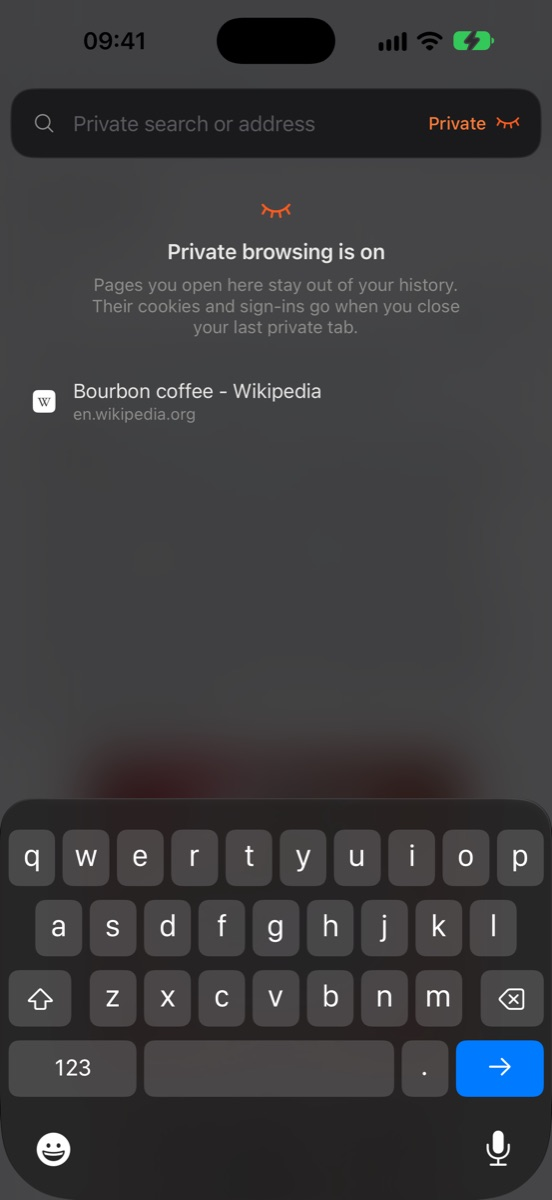
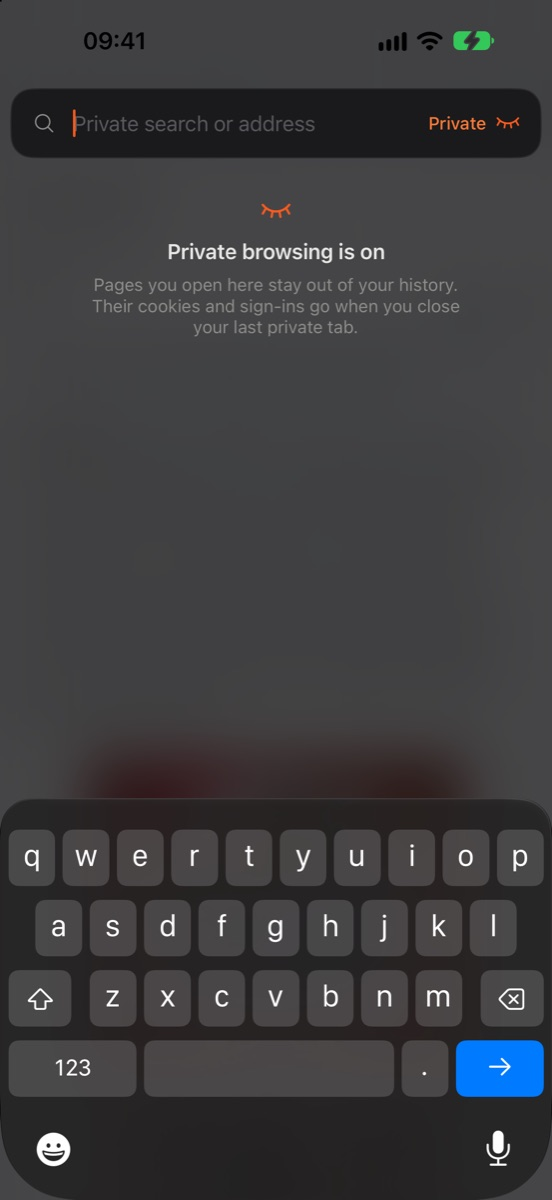
Private mode offers nothing of yours; the site leads with speed, for iPhone

diff --git a/Site/style.css b/Site/style.css
@@ -23,14 +23,13 @@ h1,h2{font-family:var(--display);font-weight:800;letter-spacing:0;text-wrap:bala
 @media(max-width:560px){.nav .link{display:none}}
 
 /* The first screen: an eclipse coming up behind one working bar. */
-.hero{position:relative;min-height:100svh;padding:clamp(92px,13vh,130px) var(--gutter) clamp(24px,5vh,56px);display:flex;flex-direction:column;justify-content:space-between;gap:32px;overflow:hidden;isolation:isolate;background:radial-gradient(125% 62% at 62% 108%,var(--ember) 0%,#7c2f14 30%,#2a120a 62%,var(--floor) 100%)}
+.hero{position:relative;min-height:100svh;padding:clamp(100px,15vh,150px) var(--gutter) clamp(28px,6vh,64px);display:flex;flex-direction:column;align-items:center;gap:clamp(28px,5vh,52px);text-align:center;overflow:hidden;isolation:isolate;background:radial-gradient(110% 58% at 50% 108%,var(--ember) 0%,#7c2f14 30%,#2a120a 62%,var(--floor) 100%)}
 .hero::after{content:"";position:absolute;z-index:-1;left:0;right:0;bottom:0;height:22vh;background:linear-gradient(transparent,#0f0f0e4d 35%,#0f0f0ec9 72%,var(--floor))}
 .hero .grain{-webkit-mask-image:linear-gradient(#000 70%,transparent);mask-image:linear-gradient(#000 70%,transparent)}
 footer .grain{-webkit-mask-image:linear-gradient(transparent,#000 30%);mask-image:linear-gradient(transparent,#000 30%)}
-.hero h1{position:relative;font-size:clamp(38px,10.4vw,176px);line-height:.98}
-.eclipse{position:absolute;z-index:-1;left:-7vw;bottom:-17vw;width:47vw;height:auto;color:#e8e7e2}
-.bar{position:relative;width:min(640px,100%);margin-left:auto}
-.bar label{display:block;margin:0 0 10px 20px;color:var(--soft);font-size:15px}
+.hero h1{position:relative;max-width:14ch;font-size:clamp(46px,8.4vw,132px);line-height:1}
+.eclipse{position:absolute;z-index:-1;left:50%;bottom:-26vmin;width:min(78vmin,700px);height:auto;margin-left:calc(min(78vmin,700px)/-2);color:#e8e7e2}
+.bar{position:relative;width:min(600px,100%);margin-top:auto;text-align:left}
 .field{display:flex;align-items:center;gap:12px;height:62px;padding:0 20px;background:#1a1918;border-radius:22px;box-shadow:inset 0 0 0 1px var(--edge),0 3px 8px -4px #0009}
 .field:focus-within{box-shadow:inset 0 0 0 1px #ffffff3d,0 3px 8px -4px #0009}
 .field svg{flex:none;width:20px;height:20px;color:var(--faint)}
@@ -41,15 +40,21 @@ footer .grain{-webkit-mask-image:linear-gradient(transparent,#000 30%);mask-imag
 .answer b.small{font-size:19px}
 .answer span{grid-column:1;color:var(--soft);font-size:15px}
 .answer i{grid-row:1/3;grid-column:2;font-style:normal;color:var(--faint);font-size:14px}
-.beta{margin-top:14px;display:flex;flex-wrap:wrap;align-items:center;gap:8px 14px;color:var(--soft);font-size:15px}
+.beta{margin-top:14px;display:flex;flex-wrap:wrap;align-items:center;justify-content:center;gap:8px 14px;color:var(--ink);font-size:15px}
 
 /* Sections are composed one by one, on one continuous floor. */
 section{position:relative;padding:clamp(72px,12vw,170px) var(--gutter)}
 h2{font-size:clamp(44px,7.4vw,116px);line-height:1}
 .lede{margin-top:20px;max-width:32em;color:var(--soft);font-size:clamp(18px,1.6vw,22px)}
-.screen,.puller,.clean .crop{border-radius:clamp(26px,3.4vw,46px);outline:1px solid #ffffff1f;outline-offset:-1px}
+.screen,.puller{border-radius:clamp(26px,3.4vw,46px);outline:1px solid #ffffff1f;outline-offset:-1px}
 .pull h2,.more h2{font-size:clamp(40px,5.6vw,92px)}
 
+.speed h2{max-width:17ch;font-size:clamp(36px,5.6vw,92px)}
+.speed dl{display:grid;grid-template-columns:repeat(4,minmax(0,1fr));gap:clamp(20px,3vw,44px);margin:clamp(40px,6vw,80px) 0 0}
+.speed dl div{margin:0}
+.speed dt{font:800 clamp(52px,7.4vw,118px)/1 var(--display);letter-spacing:.01em;color:var(--glow)}
+.speed dd{margin:10px 0 0;color:var(--soft);font-size:17px;max-width:15em}
+.speed .hint{margin-top:clamp(28px,4vw,48px);max-width:46em}
 .pull{display:grid;grid-template-columns:minmax(0,5fr) minmax(0,6fr);gap:clamp(32px,6vw,96px);align-items:center}
 .puller{position:relative;width:min(420px,100%);justify-self:center;aspect-ratio:1320/2868;border-radius:clamp(26px,3.4vw,46px);overflow:hidden;touch-action:pan-x;cursor:ns-resize;--p:100%;user-select:none}
 .puller img{position:absolute;inset:0;width:100%;height:100%;pointer-events:none}
@@ -71,8 +76,13 @@ h2{font-size:clamp(44px,7.4vw,116px);line-height:1}
 .clean{background:linear-gradient(#0f0f0e,#191210 45%,#0f0f0e);text-align:center}
 .clean h2{max-width:14ch;margin:auto}
 .clean .lede{margin:20px auto 0}
-.clean .crop{position:relative;width:min(460px,100%);margin:clamp(40px,6vw,80px) auto 0;aspect-ratio:1320/1720;overflow:hidden;border-radius:clamp(26px,3.4vw,46px)}
-.clean .crop img{position:absolute;left:0;bottom:0;width:100%}
+.slide{position:relative;width:min(460px,100%);margin:clamp(40px,6vw,80px) auto 0;aspect-ratio:1320/2868;overflow:hidden;border-radius:clamp(26px,3.4vw,46px);outline:1px solid #ffffff1f;outline-offset:-1px;user-select:none}
+.slide img{position:absolute;inset:0;width:100%;height:100%}
+.slide .top{clip-path:inset(0 0 0 var(--p))}
+.slide .line{position:absolute;top:0;bottom:0;left:var(--p);width:0}
+.slide .line::after{content:"";position:absolute;top:50%;left:-3px;width:6px;height:68px;margin-top:-34px;border-radius:6px;background:var(--glow)}
+.slide input,.splitter input{position:absolute;inset:0;width:100%;height:100%;margin:0;opacity:0;cursor:ew-resize}
+.clean .hint{margin-top:14px}
 
 .trio h2{max-width:16ch}
 .three{display:grid;grid-template-columns:repeat(3,minmax(0,1fr));gap:clamp(20px,3vw,44px);margin-top:clamp(36px,5vw,70px)}
@@ -85,6 +95,13 @@ h2{font-size:clamp(44px,7.4vw,116px);line-height:1}
 .more li b{display:block;color:var(--ink);font-weight:600}
 .more img{width:min(420px,100%);justify-self:center;transition:transform .2s}
 
+.splitwrap{justify-self:center;width:min(420px,100%)}
+.splitter{container-type:inline-size;position:relative;aspect-ratio:1320/2868;overflow:hidden;background:#000;border-radius:clamp(26px,3.4vw,46px);outline:1px solid #ffffff1f;outline-offset:-1px;user-select:none}
+.splitter .one{position:absolute;inset:0;width:100%;height:100%;clip-path:inset(0 0 calc(100% - var(--s)) 0 round 0 0 26px 26px)}
+.splitter .two{position:absolute;left:0;right:0;bottom:0;top:calc(var(--s) + 3%);overflow:hidden;border-radius:26px 26px 0 0}
+.splitter .two img{position:absolute;left:0;width:100%;top:-13.6cqw}
+.splitter .grip{position:absolute;left:50%;top:calc(var(--s) + 1.1%);width:62px;height:6px;margin-left:-31px;border-radius:6px;background:var(--glow)}
+.splitter input{cursor:ns-resize;writing-mode:vertical-lr}
 .faq{display:grid;grid-template-columns:minmax(0,4fr) minmax(0,7fr);gap:clamp(28px,6vw,96px)}
 details{padding:18px 0;box-shadow:inset 0 -1px 0 var(--edge)}
 summary{cursor:pointer;list-style:none;display:flex;justify-content:space-between;gap:20px;font-size:20px;font-weight:500}
@@ -100,7 +117,7 @@ footer{position:relative;overflow:hidden;isolation:isolate;padding:clamp(70px,11
 .cols{display:flex;flex-wrap:wrap;gap:6px clamp(20px,3vw,40px);margin-top:clamp(40px,6vw,72px);font-size:16px;color:#f2efe9d9}
 .cols a{padding:3px 0;text-decoration:none;transition:color .2s}
 .cols a:hover{color:#fff}
-@media(max-width:820px){.three{grid-template-columns:minmax(0,1fr);gap:48px}.three img{width:min(340px,100%);margin:auto}.pull,.more,.faq,.browse .rows,.close{grid-template-columns:minmax(0,1fr)}.browse .rows img{margin:0 auto -22%;width:min(380px,100%)}.browse ol{order:-1;margin-bottom:0}.more ul{columns:1}.eclipse{left:auto;right:-26vw;bottom:auto;top:38svh;width:88vw}.bar label{position:absolute;width:1px;height:1px;overflow:hidden;clip-path:inset(50%)}}
+@media(max-width:820px){.speed dl{grid-template-columns:repeat(2,minmax(0,1fr))}.three{grid-template-columns:minmax(0,1fr);gap:48px}.three img{width:min(340px,100%);margin:auto}.pull,.more,.faq,.browse .rows,.close{grid-template-columns:minmax(0,1fr)}.browse .rows img{margin:0 auto -22%;width:min(380px,100%)}.browse ol{order:-1;margin-bottom:0}.more ul{columns:1}.eclipse{left:auto;right:-26vw;bottom:auto;top:38svh;width:88vw}.bar label{position:absolute;width:1px;height:1px;overflow:hidden;clip-path:inset(50%)}}
 
 /* Plain pages: the policy and support. */
 .doc{max-width:720px;margin:auto;padding:clamp(110px,14vw,160px) var(--gutter) 80px}

diff --git a/Site/index.html b/Site/index.html
@@ -1,8 +1,8 @@
 <!doctype html>
 <html lang="en"><head><meta charset="utf-8"><meta name="viewport" content="width=device-width,initial-scale=1,viewport-fit=cover">
-<title>roko: the browser that answers back</title>
-<meta name="description" content="roko is a browser for iPhone with one bar for everything. It opens sites, answers questions, summarizes pages and removes ads, cookie banners and pop-ups.">
-<meta property="og:title" content="roko: the browser that answers back"><meta property="og:description" content="One bar for everything, on iPhone. In beta on TestFlight."><meta property="og:image" content="/img/browse.jpg"><meta name="theme-color" content="#0f0f0e">
+<title>roko: a light, fast browser for iPhone</title>
+<meta name="description" content="roko is a light, fast browser for iPhone with nothing in your way. It removes ads, cookies and pop-ups, then summarizes pages, answers questions and keeps your to-dos.">
+<meta property="og:title" content="roko: a light, fast browser for iPhone"><meta property="og:description" content="Light, fast and nothing in your way. In beta on TestFlight."><meta property="og:image" content="/img/browse.jpg"><meta name="theme-color" content="#0f0f0e">
 <link rel="icon" href="/img/icon-48.png"><link rel="apple-touch-icon" href="/img/icon-180.png"><link rel="preload" href="/fonts/cabinet-800.woff2" as="font" type="font/woff2" crossorigin><link rel="stylesheet" href="/style.css">
 </head><body>
 <nav class="nav" aria-label="Main">
@@ -14,17 +14,27 @@
 <header class="hero" id="top">
   <svg class="eclipse" viewBox="0 0 400 400" aria-hidden="true"><defs><mask id="bite"><rect width="400" height="400" fill="#fff"/><circle id="moon" cx="234" cy="200" r="96" fill="#000"/></mask></defs><circle cx="200" cy="200" r="192" fill="currentColor" mask="url(#bite)"/></svg>
   <div class="grain"></div>
-  <h1>The browser that answers back.</h1>
+  <h1>The light, fast browser for iPhone.</h1>
   <div class="bar">
-    <label for="ask">It's a working bar. Try it.</label>
     <div class="field"><svg viewBox="0 0 24 24" fill="none" stroke="currentColor" stroke-width="1.8" stroke-linecap="round" aria-hidden="true"><circle cx="10.5" cy="10.5" r="6.5"/><path d="M15.5 15.5L21 21"/></svg>
-      <input id="ask" autocomplete="off" autocapitalize="off" spellcheck="false" placeholder="Type a sum, a site or a question" enterkeyhint="go"></div>
+      <input id="ask" aria-label="Try roko's bar" autocomplete="off" autocapitalize="off" spellcheck="false" placeholder="Try it: weather, sums, days until..." enterkeyhint="go"></div>
     <div class="answer" id="answer" aria-live="polite"><b>15% of 240 = 36</b><span>Answered right in the bar</span><i>Sum</i></div>
-    <p class="beta"><a class="go" href="https://testflight.apple.com/join/M2ZrEUV1">Join the TestFlight beta <svg viewBox="0 0 12 12" fill="none" stroke="currentColor" stroke-width="1.8" stroke-linecap="round" stroke-linejoin="round" aria-hidden="true"><path d="M2.5 9.5l7-7M4 2.5h5.5V8"/></svg></a> For iPhone. The App Store is next.</p>
+    <p class="beta"><a class="go" href="https://testflight.apple.com/join/M2ZrEUV1">Join the TestFlight beta <svg viewBox="0 0 12 12" fill="none" stroke="currentColor" stroke-width="1.8" stroke-linecap="round" stroke-linejoin="round" aria-hidden="true"><path d="M2.5 9.5l7-7M4 2.5h5.5V8"/></svg></a> iOS 27 or later</p>
   </div>
 </header>
 
 <main>
+<section class="speed" id="speed">
+  <h2>It opens before you've finished reaching for it.</h2>
+  <dl>
+    <div><dt>160 ms</dt><dd>to the first screen</dd></div>
+    <div><dt>0.1 s</dt><dd>from Go to a page, when it's your top result</dd></div>
+    <div><dt>28 MB</dt><dd>for the whole app</dd></div>
+    <div><dt>0%</dt><dd>CPU while you read</dd></div>
+  </dl>
+  <p class="hint">Measured on Release builds in October 2026: first screen warm on iPhone 17 Pro, page load and CPU in the simulator, size from the build itself. Your numbers will vary with your iPhone and connection.</p>
+</section>
+
 <section class="pull" id="pull">
   <div><h2>Pull down to summarize.</h2>
     <p class="lede">A recipe gets its time, ingredients and steps. A review gets its picks side by side. A news story leads with what happened.</p></div>
@@ -44,8 +54,10 @@
 <section class="clean" id="clean">
   <h2>Ads, cookies and pop-ups, gone.</h2>
   <p class="lede">Ads and trackers go before the page draws, and cookie questions get "reject". If a site breaks, one tap brings back the original.</p>
-  <div class="crop"><img src="/img/controls.jpg" alt="roko's page menu with switches to block ads and trackers, block pop-ups and reject cookies, site by site" loading="lazy"></div>
-</section>
+  <div class="slide" id="compare" style="--p:50%"><img src="/img/before.jpg" alt="A recipe page hidden behind a cookie wall from 133 partners" loading="lazy"><img class="top" src="/img/after.jpg" alt="The same recipe in roko, with no wall" loading="lazy"><div class="line"></div>
+    <input type="range" min="0" max="100" value="50" aria-label="Compare the page without roko and with roko"></div>
+  <p class="hint">Drag across: the same page, without roko on the left and with it on the right.</p>
+  </section>
 
 <section class="trio" id="yours">
   <h2>And it's on your side.</h2>
@@ -68,7 +80,9 @@
       <li><b>iCloud sync</b>Pins, history, to-dos and settings.</li>
       <li><b>iPhone Duo</b>Page above the fold, trackpad below.</li>
     </ul></div>
-  <img class="screen" id="splitshot" src="/img/split.jpg" alt="Two Wikipedia articles open at once in roko's Split View" loading="lazy">
+  <div class="splitwrap"><div class="splitter" id="splitter" style="--s:52%"><img class="one" src="/img/page.jpg" alt="The Espresso article on Wikipedia, on top" loading="lazy"><div class="two"><img src="/img/bourbon.jpg" alt="The Bourbon coffee article on Wikipedia, below" loading="lazy"></div><div class="grip"></div>
+    <input type="range" min="28" max="76" value="52" aria-label="Drag the divider between the two pages"></div>
+    <p class="hint" style="text-align:center">Drag the divider</p></div>
 </section>
 
 <section class="faq" id="questions">
@@ -85,7 +99,7 @@
 
 <footer>
   <div class="grain"></div>
-  <div class="close"><h2>One bar for everything.</h2><a class="go" href="https://testflight.apple.com/join/M2ZrEUV1">Join the TestFlight beta <svg viewBox="0 0 12 12" fill="none" stroke="currentColor" stroke-width="1.8" stroke-linecap="round" stroke-linejoin="round" aria-hidden="true"><path d="M2.5 9.5l7-7M4 2.5h5.5V8"/></svg></a></div>
+  <div class="close"><h2>Less waiting, less clutter.</h2><a class="go" href="https://testflight.apple.com/join/M2ZrEUV1">Join the TestFlight beta <svg viewBox="0 0 12 12" fill="none" stroke="currentColor" stroke-width="1.8" stroke-linecap="round" stroke-linejoin="round" aria-hidden="true"><path d="M2.5 9.5l7-7M4 2.5h5.5V8"/></svg></a></div>
   <div class="cols">
     <a href="/support">Support</a><a href="/privacy">Privacy policy</a><a href="mailto:karlo@growthstudio.hr?subject=roko">karlo@growthstudio.hr</a>
   </div>

diff --git a/Site/site.js b/Site/site.js
@@ -42,10 +42,46 @@ async function rate(amount, from, to, stamp) {
   } catch { if (stamp === asked) show("Rates need a connection", "roko works it out in the bar", "Rate", true); }
 }
 
+const holidays = { christmas: [12, 25], "new year": [1, 1], "new years": [1, 1], halloween: [10, 31], "valentine's day": [2, 14], "valentines day": [2, 14] };
+const months = "january february march april may june july august september october november december".split(" ");
+function daysUntil(low) {
+  const m = low.match(/^(?:how many )?days (?:until|till|to|since)\s+(.+?)\??$/); if (!m) return null;
+  const since = /since/.test(low), name = m[1].replace(/^the /, "");
+  let month, day, year;
+  if (holidays[name]) [month, day] = holidays[name];
+  else {
+    let d = name.match(/^(\d{1,2})\.?\s+([a-z]+)\.?(?:\s+(\d{4}))?$/), e = name.match(/^([a-z]+)\s+(\d{1,2})(?:,?\s+(\d{4}))?$/);
+    if (d) { day = +d[1]; month = months.findIndex(x => x.startsWith(d[2].slice(0, 3))) + 1; year = d[3] && +d[3]; }
+    else if (e) { day = +e[2]; month = months.findIndex(x => x.startsWith(e[1].slice(0, 3))) + 1; year = e[3] && +e[3]; }
+    else return null;
+    if (!month) return null;
+  }
+  const now = new Date(), today = new Date(now.getFullYear(), now.getMonth(), now.getDate());
+  let when = new Date(year || now.getFullYear(), month - 1, day);
+  if (!year && !since && when < today) when = new Date(now.getFullYear() + 1, month - 1, day);
+  const n = Math.abs(Math.round((when - today) / 864e5));
+  return [`${n} day${n === 1 ? "" : "s"}`, `${since ? "Since" : "Until"} ${when.toLocaleDateString("en-GB", { day: "numeric", month: "long", year: "numeric" })}`];
+}
+
+async function weather(place, stamp) {
+  const name = (place || Intl.DateTimeFormat().resolvedOptions().timeZone.split("/").pop().replace(/_/g, " ")).trim();
+  show("…", `Weather in ${name}`, "Weather");
+  try {
+    const geo = (await (await fetch(`https://geocoding-api.open-meteo.com/v1/search?name=${encodeURIComponent(name)}&count=1`)).json()).results?.[0];
+    if (!geo) { if (stamp === asked) show("Place not found", name, "Weather", true); return; }
+    const c = (await (await fetch(`https://api.open-meteo.com/v1/forecast?latitude=${geo.latitude}&longitude=${geo.longitude}&current=temperature_2m,weather_code`)).json()).current;
+    if (stamp !== asked) return;
+    const code = c.weather_code, sky = code === 0 ? "Clear" : code < 3 ? "Partly cloudy" : code === 3 ? "Cloudy" : code < 50 ? "Fog" : code < 70 ? "Rain" : code < 80 ? "Snow" : code < 90 ? "Showers" : "Storms";
+    show(`${Math.round(c.temperature_2m)}° ${sky}`, `Right now in ${geo.name}`, "Weather");
+  } catch { if (stamp === asked) show("Weather needs a connection", "roko shows it in the bar", "Weather", true); }
+}
+
 function answer(raw) {
   const text = raw.trim(), low = text.toLowerCase(), stamp = ++asked;
   if (!text) return show("15% of 240 = 36", "Answered right in the bar", "Sum");
   let m;
+  const until = daysUntil(low); if (until) return show(until[0], until[1], "Date");
+  if ((m = low.match(/^(?:weather|forecast)(?:\s+(?:in|for|at)\s+(.+))?$/)) || (m = low.match(/^(.+?)\s+weather$/))) return void weather(m[1], stamp);
   if ((m = low.match(/^([\d.]+)\s*%\s*of\s*([\d.]+)$/))) return show(`${text} = ${tidy(m[1] / 100 * m[2])}`, "Answered right in the bar", "Sum");
   if ((m = low.match(/^([\d.,]+)\s*([a-z]{3})\s+(?:in|to)\s+([a-z]{3})$/))) return void rate(parseFloat(m[1].replace(",", "")), m[2].toUpperCase(), m[3].toUpperCase(), stamp);
   if ((m = low.match(/^([\d.]+)\s*(km|mi|kg|lb|cm|in|m|ft|l)(?:\s+(?:in|to)\s+[a-z]+)?$/))) { const [to, by] = units[m[2]]; return show(`${tidy(m[1] * by)} ${to}`, `${m[1]} ${m[2]}`, "Unit"); }
@@ -60,7 +96,7 @@ input.addEventListener("input", () => { stopped = true; answer(input.value); });
 
 // The bar shows itself until someone reaches for it.
 let stopped = still;
-const samples = ["250 usd in eur", "time in tokyo", "call Petra tomorrow", "how long do you boil an egg?", "12 km", "wikipedia.org"];
+const samples = ["weather in tokyo", "days until christmas", "250 usd in eur", "call Petra tomorrow", "how long do you boil an egg?", "time in new york"];
 input.addEventListener("focus", () => { if (!stopped) { stopped = true; input.value = ""; answer(""); } });
 (async () => {
   const wait = ms => new Promise(r => setTimeout(r, ms));
@@ -75,7 +111,10 @@ input.addEventListener("focus", () => { if (!stopped) { stopped = true; input.va
 // The eclipse closes as the first screen goes by.
 const moon = document.getElementById("moon");
 const puller = document.getElementById("puller"), range = puller.querySelector("input");
-const shot = document.getElementById("splitshot");
+for (const [box, name] of [[document.getElementById("compare"), "--p"], [document.getElementById("splitter"), "--s"]]) {
+  const r = box.querySelector("input");
+  r.addEventListener("input", () => box.style.setProperty(name, r.value + "%"));
+}
 let pulled = false;
 range.addEventListener("input", () => { pulled = true; puller.style.setProperty("--p", range.value + "%"); });
 if (!still) {
@@ -90,8 +129,6 @@ if (!still) {
       puller.style.setProperty("--p", p * 100 + "%");
       range.value = p * 100;
     }
-    const s = shot.getBoundingClientRect();
-    if (s.bottom > 0 && s.top < vh) shot.style.transform = `translateY(${(s.top + s.height / 2 - vh / 2) * -.04}px)`;
   };
   addEventListener("scroll", () => { if (!queued) { queued = true; requestAnimationFrame(frame); } }, { passive: true });
   frame();

diff --git a/Browser/Command/CommandBarView.swift b/Browser/Command/CommandBarView.swift
@@ -213,6 +213,7 @@ struct CommandBarView: View {
             rebuild()
         }
         .onChange(of: Parking.shared.session) { rebuild() }
+        .onChange(of: browser.commandMode) { rebuild() }
         .task(id: query) {
             // "weather in London", "vrijeme u Zagrebu": a town's weather, after a short pause.
             guard WeatherQuery.place(in: query) != nil else { return }
@@ -241,7 +242,8 @@ struct CommandBarView: View {
         .task(id: query) {
             // A short pause so suggestions aren't requested for every keystroke.
             let text = query.trimmingCharacters(in: .whitespaces)
-            guard browser.launcherContext == .web, UserDefaults.standard.object(forKey: "suggestions") as? Bool ?? true,
+            // Private: what's typed doesn't go to the search engine letter by letter.
+            guard browser.commandMode != .privateTab, browser.launcherContext == .web, UserDefaults.standard.object(forKey: "suggestions") as? Bool ?? true,
                   text.count >= 2, Omnibox.url(from: text) == nil else {
                 suggestions = []
                 return
@@ -955,6 +957,12 @@ struct CommandBarView: View {
                                         subtitle: url.displayHost, kind: "", icon: .site(url.displayHost), action: .open(url)))
             }
             items = rows
+        }
+        // Private: nothing of yours offered, and no site or search guessed at.
+        if browser.commandMode == .privateTab {
+            items.removeAll { item in
+                ["pin-", "recent-", "history-", "suggest-", "suggested-", "popular-", "site-"].contains { item.id.hasPrefix($0) }
+            }
         }
         // Resolve where Return would go before it's pressed.
         switch items.first?.action {

diff --git a/CHANGELOG.md b/CHANGELOG.md
@@ -6,7 +6,7 @@ and versions follow [Semantic Versioning](https://semver.org/).
 ## [Unreleased]
 
 ### Website
-- roko has a site in `Site/`, with a working copy of the bar, support and the privacy policy.
+- roko has a site in `Site/`: speed first, a working copy of the bar with weather and days until, draggable before and after and Split View, support and the privacy policy.
 
 ### Changed
 - Shared answers have a Report link, which emails roko.
@@ -26,6 +26,7 @@ and versions follow [Semantic Versioning](https://semver.org/).
 
 ### Added
 - Turning on private browsing says so: "Private" in the address field, and what it means under it.
+- In private browsing the bar offers no pins, history or sites, and what you type goes to the search engine only when you search.
 - iCloud sync is on: pins, history and settings follow you between devices through your own iCloud account.
 - iPhone Duo: with the phone open, the bar, the page menu and the address field keep to one half instead of lying across the fold; Split View parts at the fold, side by side or stacked; pages keep clear of the clock at the side, open or shut, and it stays readable on black beside a split.
 - iPhone Duo propped open with the fold lying across, like a small laptop: the page stands above the fold and ends there, the bar lies below it on black, and the page menu rises only as far as the fold. The empty lower half works like a trackpad: drag there and the page above scrolls, with its own momentum and bounce.
